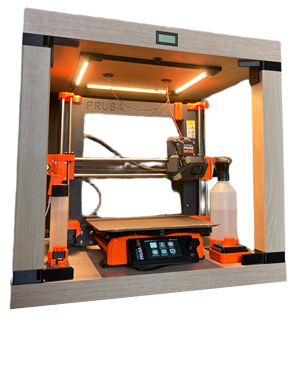
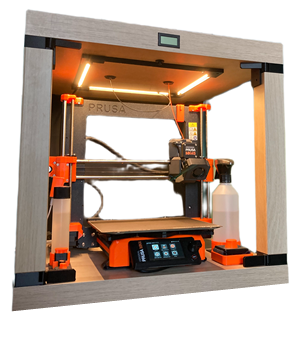
feat: add contact form with OVH SMTP email sending

diff --git a/app/kontakt/ContactFormClient.tsx b/app/kontakt/ContactFormClient.tsx
@@ -1,0 +1,134 @@
+"use client";
+
+import { useState, type FormEvent } from "react";
+
+export default function ContactFormClient() {
+  const [name, setName] = useState("");
+  const [email, setEmail] = useState("");
+  const [subject, setSubject] = useState("");
+  const [message, setMessage] = useState("");
+  const [sending, setSending] = useState(false);
+  const [status, setStatus] = useState<"idle" | "ok" | "error">("idle");
+  const [errorText, setErrorText] = useState("");
+
+  const resetStatus = () => {
+    if (status !== "idle") setStatus("idle");
+  };
+
+  const handleSubmit = async (e: FormEvent) => {
+    e.preventDefault();
+    setSending(true);
+    setStatus("idle");
+    setErrorText("");
+
+    try {
+      const res = await fetch("/api/contact", {
+        method: "POST",
+        headers: { "Content-Type": "application/json" },
+        body: JSON.stringify({ name, email, subject, message }),
+      });
+      const data = await res.json();
+      if (!res.ok) {
+        setStatus("error");
+        setErrorText(data.error || "Nie udało się wysłać.");
+      } else {
+        setStatus("ok");
+        setName("");
+        setEmail("");
+        setSubject("");
+        setMessage("");
+      }
+    } catch {
+      setStatus("error");
+      setErrorText("Błąd połączenia. Spróbuj ponownie.");
+    } finally {
+      setSending(false);
+    }
+  };
+
+  const inputStyle: Record<string, string> = {
+    backgroundColor: "var(--sub-bg)",
+    border: "1px solid var(--sub-border-subtle)",
+    borderRadius: "6px",
+    padding: "10px 14px",
+    color: "var(--sub-text)",
+    fontSize: "13px",
+    outline: "none",
+    width: "100%",
+    boxSizing: "border-box",
+    fontFamily: "inherit",
+  };
+
+  return (
+    <form onSubmit={handleSubmit} style={{ display: "flex", flexDirection: "column", gap: 14 }}>
+      <input
+        placeholder="Imię / Nick *"
+        value={name}
+        onChange={(e) => { setName(e.target.value); resetStatus(); }}
+        required
+        style={inputStyle}
+      />
+      <input
+        type="email"
+        placeholder="E-mail *"
+        value={email}
+        onChange={(e) => { setEmail(e.target.value); resetStatus(); }}
+        required
+        style={inputStyle}
+      />
+      <input
+        placeholder="Temat *"
+        value={subject}
+        onChange={(e) => { setSubject(e.target.value); resetStatus(); }}
+        required
+        style={inputStyle}
+      />
+      <textarea
+        placeholder="Treść wiadomości *"
+        value={message}
+        onChange={(e) => { setMessage(e.target.value); resetStatus(); }}
+        required
+        rows={5}
+        style={{
+          ...inputStyle,
+          resize: "vertical",
+          minHeight: 100,
+        }}
+      />
+      <div style={{ display: "flex", alignItems: "center", gap: 14, flexWrap: "wrap" }}>
+        <button
+          type="submit"
+          disabled={sending}
+          style={{
+            backgroundColor: sending ? "var(--sub-border)" : "var(--sub-subtitle)",
+            color: "var(--sub-bg)",
+            border: "none",
+            borderRadius: 7,
+            padding: "11px 28px",
+            fontWeight: 700,
+            fontSize: 13,
+            letterSpacing: "0.08em",
+            cursor: sending ? "wait" : "pointer",
+            textTransform: "uppercase",
+            transition: "opacity 0.2s",
+          }}
+          onMouseEnter={(e) => { if (!sending) (e.target as HTMLButtonElement).style.opacity = "0.85"; }}
+          onMouseLeave={(e) => { (e.target as HTMLButtonElement).style.opacity = "1"; }}
+        >
+          {sending ? "Wysyłanie…" : "Wyślij"}
+        </button>
+
+        {status === "ok" && (
+          <span style={{ fontSize: 13, color: "#4ade80", fontWeight: 600 }}>
+            ✓ Wiadomość wysłana! Odpowiemy najszybciej jak to możliwe.
+          </span>
+        )}
+        {status === "error" && (
+          <span style={{ fontSize: 13, color: "#f87171", fontWeight: 600 }}>
+            ✗ {errorText}
+          </span>
+        )}
+      </div>
+    </form>
+  );
+}

diff --git a/app/homepage-client.tsx b/app/homepage-client.tsx
@@ -53,6 +53,19 @@ export default function HomepageClient({
     return () => clearInterval(id);
   }, [panel1Images.length]);
 
+  // responsive: show fewer images at once on mobile to avoid squeezing
+  const [visibleCount, setVisibleCount] = useState(5);
+  useEffect(() => {
+    const update = () => {
+      if (window.innerWidth < 640) setVisibleCount(3);
+      else if (window.innerWidth < 1024) setVisibleCount(5);
+      else setVisibleCount(7);
+    };
+    update();
+    window.addEventListener("resize", update);
+    return () => window.removeEventListener("resize", update);
+  }, []);
+
   const panelBgRgba = hexToRgba(
     settings.panelBgColor,
     parseInt(settings.panelOpacity)
@@ -67,9 +80,8 @@ export default function HomepageClient({
   };
 
   const n = sliderImages.length;
-  // Strip holds 2 copies; each image = 1/7 of visible container
-  // Strip width = (2n/7)*100% of container so that each image = 100%/container/7
-  const stripWidthPercent = n > 0 ? (2 * n / 7) * 100 : 200;
+  // Strip holds 2 copies; each image = 1/visibleCount of visible container
+  const stripWidthPercent = n > 0 ? (2 * n / visibleCount) * 100 : 200;
   const durationSeconds = Math.max(n * 2, 10);
 
   const bgStyle: CSSProperties = settings.bgDataUrl
@@ -200,7 +212,7 @@ export default function HomepageClient({
                       alt={`Slide ${(i % n) + 1}`}
                       style={{
                         width: "100%",
-                        height: "180px",
+                        height: "clamp(100px, 18vw, 180px)",
                         objectFit: "cover",
                         objectPosition: "top",
                         borderRadius: "10px",
@@ -259,7 +271,7 @@ export default function HomepageClient({
           <div className="grid grid-cols-2 sm:grid-cols-3 gap-3">
             {[
               "Intuicyjna obsługa – szybki proces bez zbędnych kroków.",
-              "Gwarancja zgodności – system blokujący wybór niepasujących części",
+              "Gwarancja kompatybilności – system blokujący wybór niepasujących części",
               "Inteligentny dobór komponentów – wsparcie w wyborze podzespołów",
               "Optymalizacja kosztów – pełna kontrola nad budżetem",
               "Wycena w czasie rzeczywistym – kosztorys widoczny przy każdej zmianie",
@@ -276,6 +288,8 @@ export default function HomepageClient({
                   alignItems: "flex-start",
                   gap: 8,
                   padding: "12px 14px",
+                  overflowWrap: "break-word",
+                  wordBreak: "break-word",
                 }}
               >
                 {/* eslint-disable-next-line @next/next/no-img-element */}
@@ -296,7 +310,7 @@ export default function HomepageClient({
           </h2>
           <div className="flex flex-col gap-3 text-sm">
             {[
-              ["Wsparcie techniczne", "support@fpvlab.pl"],
+              ["Wsparcie techniczne", "mail@fpvlab.pl"],
               ["Wersja aplikacji", "2.5.1"],
               ["Typ licencji użytkownika", "Professional"],
             ].map(([label, value]) => (

diff --git a/app/api/contact/route.ts b/app/api/contact/route.ts
@@ -1,0 +1,75 @@
+import { NextResponse } from "next/server";
+import nodemailer from "nodemailer";
+
+const OVH_HOST = process.env.SMTP_HOST || "ssl0.ovh.net";
+const OVH_PORT = parseInt(process.env.SMTP_PORT || "465");
+const OVH_SECURE = OVH_PORT === 465;
+const OVH_USER = process.env.SMTP_USER || "mail@fpvlab.pl";
+const OVH_PASS = process.env.SMTP_PASS || "";
+
+const TO_EMAIL = process.env.MAIL_TO || "beniugalaxy@gmail.com";
+
+export async function POST(request: Request) {
+  try {
+    const body = await request.json();
+    const { name, email, subject, message } = body;
+
+    // basic validation
+    if (!name || !email || !subject || !message) {
+      return NextResponse.json(
+        { error: "Wypełnij wszystkie pola." },
+        { status: 400 }
+      );
+    }
+
+    const transporter = nodemailer.createTransport({
+      host: OVH_HOST,
+      port: OVH_PORT,
+      secure: OVH_SECURE,
+      auth: {
+        user: OVH_USER,
+        pass: OVH_PASS,
+      },
+    });
+
+    const htmlContent = `
+      <div style="font-family:sans-serif;max-width:600px;margin:0 auto;">
+        <h2 style="color:#f97316;">Nowa wiadomość z FPV LAB</h2>
+        <table style="width:100%;border-collapse:collapse;">
+          <tr><td style="padding:8px;font-weight:700;color:#555;">Imię:</td><td style="padding:8px;">${escapeHtml(name)}</td></tr>
+          <tr><td style="padding:8px;font-weight:700;color:#555;">E-mail:</td><td style="padding:8px;">${escapeHtml(email)}</td></tr>
+          <tr><td style="padding:8px;font-weight:700;color:#555;">Temat:</td><td style="padding:8px;">${escapeHtml(subject)}</td></tr>
+        </table>
+        <hr style="border:none;border-top:1px solid #eee;margin:16px 0;" />
+        <p style="font-size:14px;line-height:1.6;color:#333;">${escapeHtml(message).replace(/\n/g, "<br>")}</p>
+        <hr style="border:none;border-top:1px solid #eee;margin:16px 0;" />
+        <p style="font-size:12px;color:#999;">Wiadomość wysłana z formularza kontaktowego fpvlab.pl</p>
+      </div>
+    `;
+
+    await transporter.sendMail({
+      from: `"FPV LAB Kontakt" <${OVH_USER}>`,
+      replyTo: email,
+      to: TO_EMAIL,
+      subject: `[FPV LAB] ${subject}`,
+      html: htmlContent,
+    });
+
+    return NextResponse.json({ success: true });
+  } catch (error) {
+    console.error("Błąd wysyłki maila:", error);
+    return NextResponse.json(
+      { error: "Nie udało się wysłać wiadomości. Spróbuj ponownie później." },
+      { status: 500 }
+    );
+  }
+}
+
+function escapeHtml(text: string): string {
+  return text
+    .replace(/&/g, "&amp;")
+    .replace(/</g, "&lt;")
+    .replace(/>/g, "&gt;")
+    .replace(/"/g, "&quot;")
+    .replace(/'/g, "&#039;");
+}

diff --git a/app/kontakt/page.tsx b/app/kontakt/page.tsx
@@ -2,6 +2,7 @@ import type { Metadata } from "next";
 import MainHeader from "../components/MainHeader";
 import MainFooter from "../components/MainFooter";
 import SubpageShell from "../components/SubpageShell";
+import ContactFormClient from "./ContactFormClient";
 
 export const metadata: Metadata = {
   title: "Kontakt",
@@ -65,62 +66,7 @@ export default function KontaktPage() {
           >
             Wyślij wiadomość
           </h2>
-          <div style={{ display: "flex", flexDirection: "column", gap: 14 }}>
-            {["Imię", "e-mail", "Temat"].map((placeholder) => (
-              <input
-                key={placeholder}
-                placeholder={placeholder}
-                readOnly
-                style={{
-                  backgroundColor: "var(--sub-bg)",
-                  border: "1px solid var(--sub-border-subtle)",
-                  borderRadius: 6,
-                  padding: "10px 14px",
-                  color: "var(--sub-border)",
-                  fontSize: 13,
-                  outline: "none",
-                  width: "100%",
-                  boxSizing: "border-box",
-                }}
-              />
-            ))}
-            <textarea
-              placeholder="Treść"
-              readOnly
-              rows={4}
-              style={{
-                backgroundColor: "var(--sub-bg)",
-                border: "1px solid var(--sub-border-subtle)",
-                borderRadius: 6,
-                padding: "10px 14px",
-                color: "var(--sub-border)",
-                fontSize: 13,
-                outline: "none",
-                width: "100%",
-                resize: "none",
-                boxSizing: "border-box",
-                fontFamily: "inherit",
-              }}
-            />
-            <div>
-              <button
-                style={{
-                  backgroundColor: "var(--sub-subtitle)",
-                  color: "var(--sub-bg)",
-                  border: "none",
-                  borderRadius: 7,
-                  padding: "11px 28px",
-                  fontWeight: 700,
-                  fontSize: 13,
-                  letterSpacing: "0.08em",
-                  cursor: "not-allowed",
-                  textTransform: "uppercase",
-                }}
-              >
-                Wyślij (wkrótce)
-              </button>
-            </div>
-          </div>
+          <ContactFormClient />
         </div>
       </main>
 

diff --git a/app/drukuj-3d/page.tsx b/app/drukuj-3d/page.tsx
@@ -147,7 +147,7 @@ export default function Drukuj3DPage() {
               >
                 {/* eslint-disable-next-line @next/next/no-img-element */}
                 <img
-                  src="/images/stanowisko_prusa.jpg"
+                  src="/images/stanowisko_prusa.png"
                   alt="Stanowisko Prusa MK4S+"
                   style={{ width: "100%", display: "block", borderRadius: 10 }}
                 />

diff --git a/app/o-mnie/page.tsx b/app/o-mnie/page.tsx
@@ -84,7 +84,7 @@ export default function OMniePage() {
           <div
             style={{
               display: "grid",
-              gridTemplateColumns: "repeat(3, 1fr)",
+              gridTemplateColumns: "repeat(auto-fit, minmax(150px, 1fr))",
               gap: 16,
               marginTop: 8,
             }}
